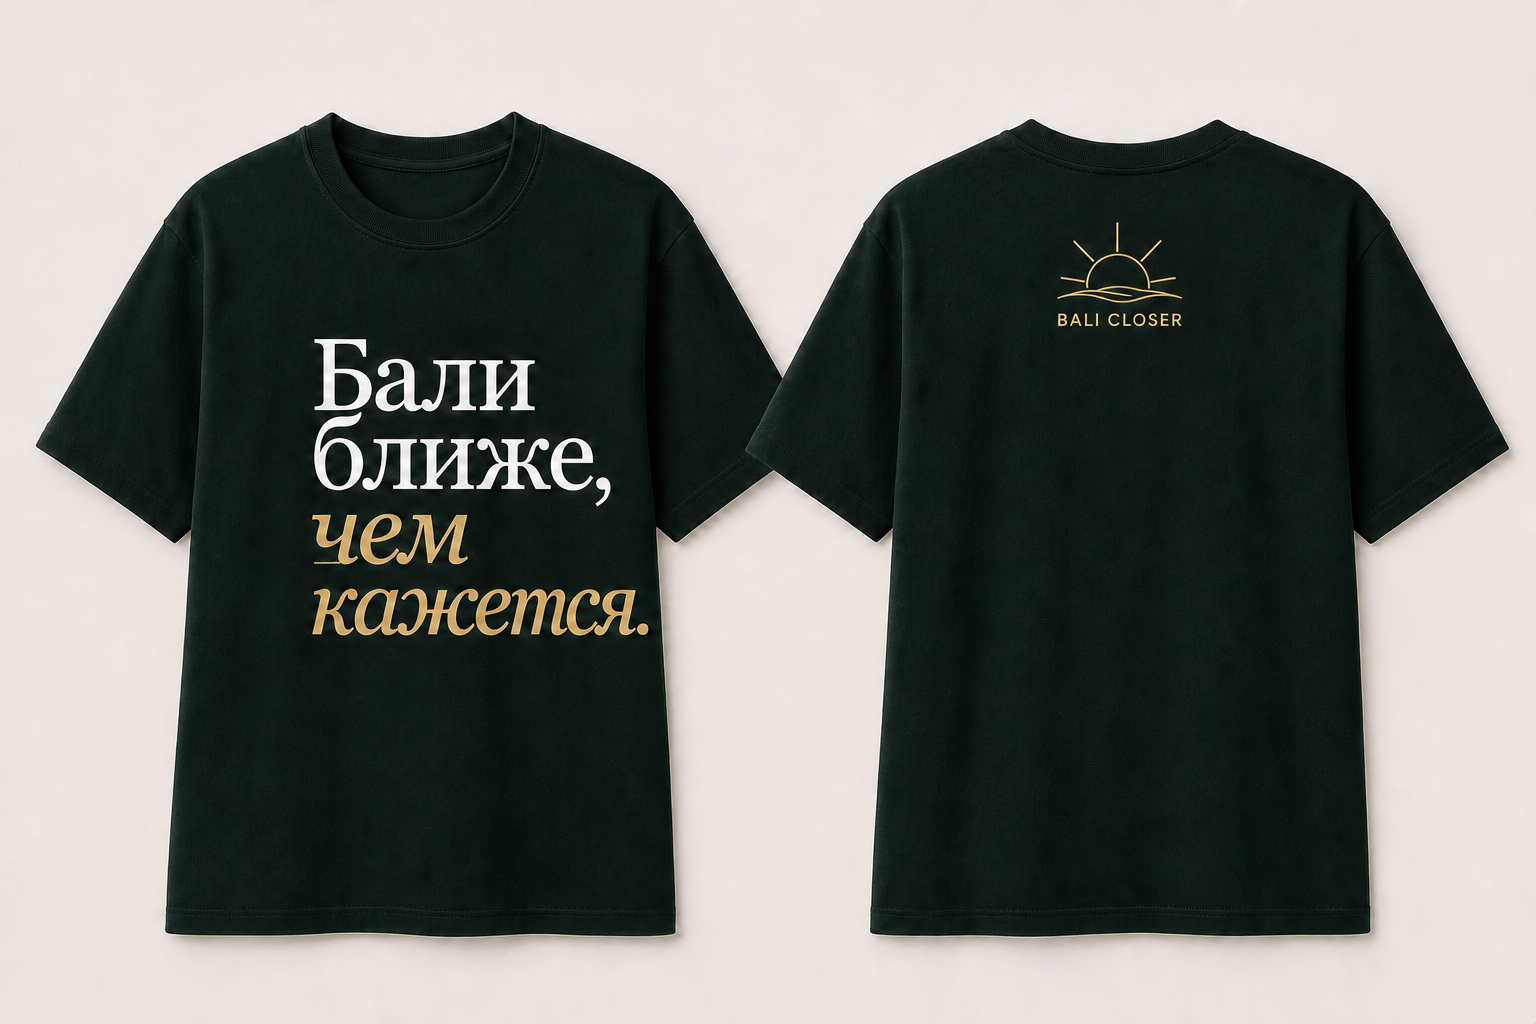
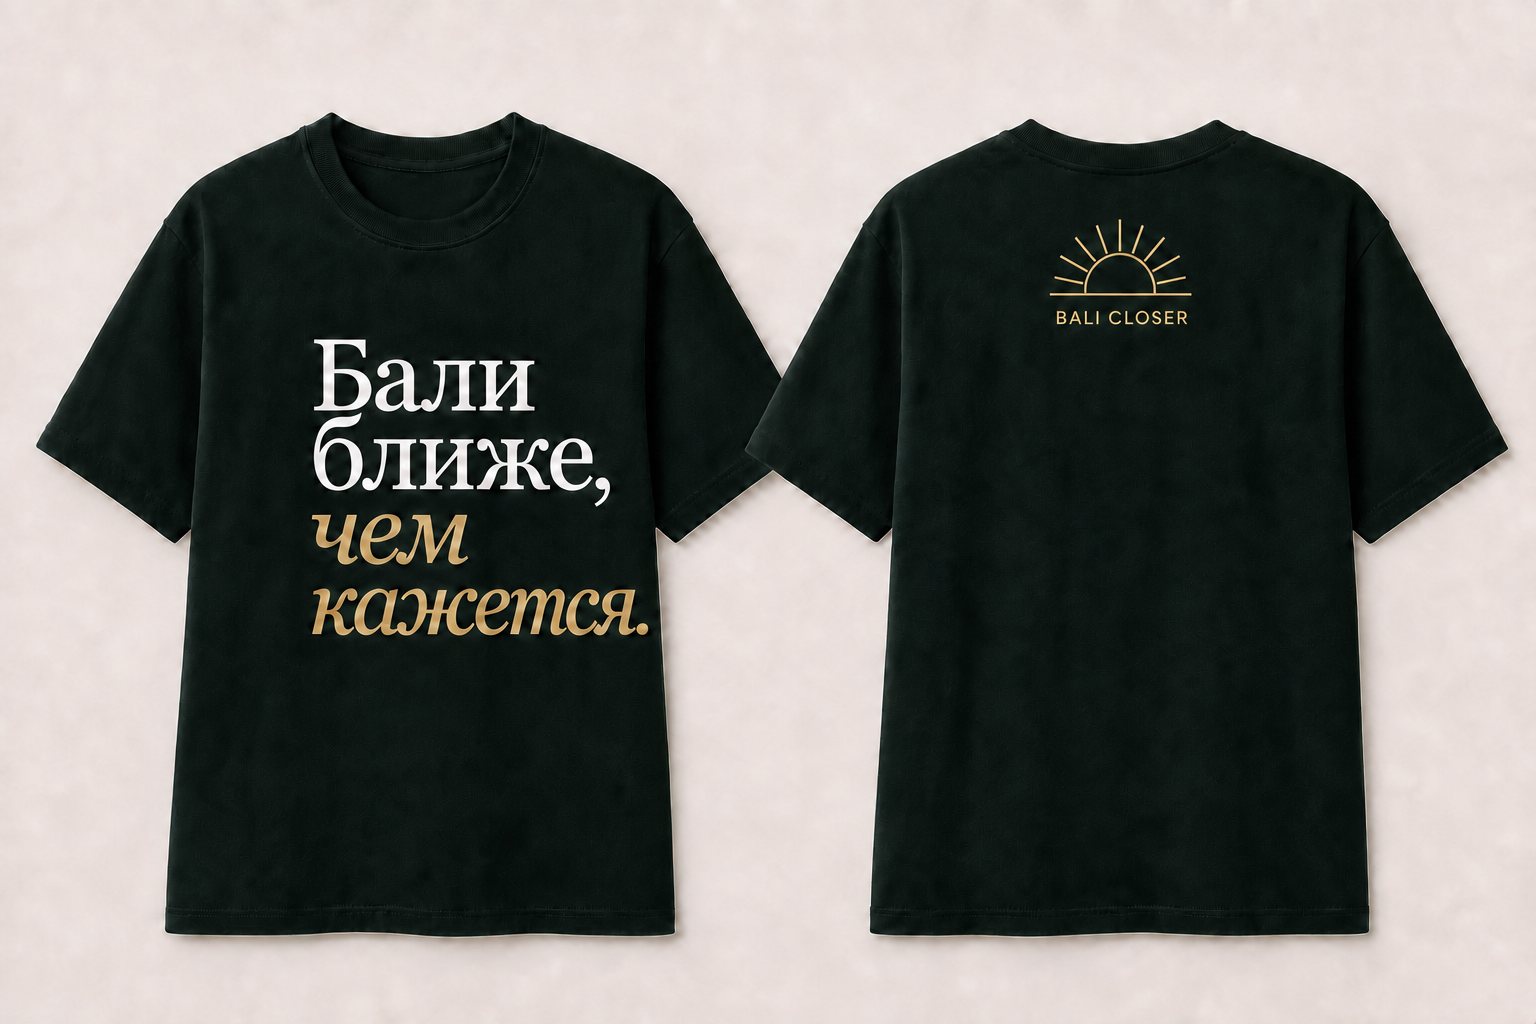
fix: simplify Bali Closer sun mark

diff --git a/components/BrandLogo.tsx b/components/BrandLogo.tsx
@@ -8,10 +8,9 @@ function SunriseMark() {
   return (
     <svg className="brand-logo-mark" viewBox="0 0 72 58" aria-hidden="true">
       <g fill="none" stroke="currentColor" strokeLinecap="round" strokeLinejoin="round">
-        <path d="M21 34a15 15 0 0 1 30 0" strokeWidth="2.2" />
-        <path d="M12 38c8-3 16-3 24 0s16 3 24 0" strokeWidth="2" />
-        <path d="M15 44c7-3 14-3 21 0s14 3 21 0" strokeWidth="1.65" />
-        <path d="M36 5v7M23 9l3.5 6M49 9l-3.5 6M14 18l6 3.5M58 18l-6 3.5M10 30h7M62 30h-7" strokeWidth="1.65" />
+        <path d="M20 36a16 16 0 0 1 32 0" strokeWidth="2.2" />
+        <path d="M8 36h56" strokeWidth="2" />
+        <path d="M19.58 31.6 9.92 29.01M21.28 27.5 12.62 22.5M23.98 23.98 16.91 16.91M27.5 21.28 22.5 12.62M31.6 19.58 29.01 9.92M36 19V9M40.4 19.58 42.99 9.92M44.5 21.28 49.5 12.62M48.02 23.98 55.09 16.91M50.72 27.5 59.38 22.5M52.42 31.6 62.08 29.01" strokeWidth="1.65" />
       </g>
     </svg>
   );

diff --git a/scripts/build_brand_vendor_art.py b/scripts/build_brand_vendor_art.py
@@ -59,10 +59,9 @@ def centered_line(font: TTFont, text: str, y: float, max_width: float, size: flo
 def sunrise_geometry(colour: str) -> str:
     return (
         f'<g fill="none" stroke="{colour}" stroke-linecap="round" stroke-linejoin="round">'
-        '<path d="M21 34a15 15 0 0 1 30 0" stroke-width="2.2"/>'
-        '<path d="M12 38c8-3 16-3 24 0s16 3 24 0" stroke-width="2"/>'
-        '<path d="M15 44c7-3 14-3 21 0s14 3 21 0" stroke-width="1.65"/>'
-        '<path d="M36 5v7M23 9l3.5 6M49 9l-3.5 6M14 18l6 3.5M58 18l-6 3.5M10 30h7M62 30h-7" stroke-width="1.65"/>'
+        '<path d="M20 36a16 16 0 0 1 32 0" stroke-width="2.2"/>'
+        '<path d="M8 36h56" stroke-width="2"/>'
+        '<path d="M19.58 31.6 9.92 29.01M21.28 27.5 12.62 22.5M23.98 23.98 16.91 16.91M27.5 21.28 22.5 12.62M31.6 19.58 29.01 9.92M36 19V9M40.4 19.58 42.99 9.92M44.5 21.28 49.5 12.62M48.02 23.98 55.09 16.91M50.72 27.5 59.38 22.5M52.42 31.6 62.08 29.01" stroke-width="1.65"/>'
         '</g>'
     )
 
@@ -99,4 +98,3 @@ OUT.mkdir(parents=True, exist_ok=True)
 for name, value in COLOURS.items():
     build_front(name, value)
     build_stacked(name, value)
-

diff --git a/.scratch/bali-closer-brand/spec.md b/.scratch/bali-closer-brand/spec.md
@@ -6,7 +6,7 @@ Implemented locally on 25 July 2026. Automated checks and desktop/mobile visual 
 
 ## Confirmed decisions
 
-1. Universal symbol: simplified sunrise with seven rays and two rice-terrace contour lines.
+1. Universal symbol: simple half sunrise with eleven straight rays and one horizontal baseline, matching the approved reference; no contour or wave lines.
 2. Wordmark uses bold clean sans-serif typography.
 3. Russian website: `BALI · БЛИЖЕ`; English website: `BALI · CLOSER`.
 4. Uniform back: stacked symbol with `BALI CLOSER`.
@@ -20,4 +20,3 @@ Implemented locally on 25 July 2026. Automated checks and desktop/mobile visual 
 - Website remains compatible with GitHub Pages static export.
 - Vendor package includes outlined SVG artwork at physical print dimensions and three official colour treatments.
 - Russian wordmark is not published until fluent review is recorded.
-

diff --git a/design/brand/README.md b/design/brand/README.md
@@ -2,7 +2,7 @@
 
 ## Logo architecture
 
-- Universal mark: a rising sun above two contour lines inspired by Bali rice terraces.
+- Universal mark: a simple half rising sun with eleven straight rays and one horizontal baseline.
 - Russian horizontal wordmark: `BALI · БЛИЖЕ`.
 - English horizontal wordmark: `BALI · CLOSER`.
 - Staff uniform back: stacked mark with `BALI CLOSER`.
@@ -22,7 +22,7 @@ The website asset folder includes separate gold, white, and deep-forest SVG expo
 - Horizontal minimum width: 150 px on screen or 40 mm in print.
 - Stacked minimum width: 32 mm in print.
 - Symbol minimum size: 24 px on screen or 8 mm in print.
-- Do not stretch, rotate, add shadows, use gradients, or rearrange the rays and contour lines.
+- Do not stretch, rotate, add shadows, use gradients, add contour lines, or rearrange the rays and baseline.
 
 ## Uniform recommendation
 

diff --git a/workflows/brand-asset-production.md b/workflows/brand-asset-production.md
@@ -10,7 +10,7 @@ Run this workflow whenever a new branded medium is requested or an existing logo
 
 ## Source of truth
 
-- Universal symbol: sunrise plus two rice-terrace contour lines.
+- Universal symbol: simple half sunrise with eleven straight rays and one horizontal baseline; no contour or wave lines.
 - Website wordmarks: `BALI · БЛИЖЕ` for Russian and `BALI · CLOSER` for English.
 - Staff uniform back: stacked symbol plus `BALI CLOSER`.
 - Official colours and size rules: `design/brand/README.md`.

diff --git a/.scratch/bali-closer-brand/issues/01-logo-system.md b/.scratch/bali-closer-brand/issues/01-logo-system.md
@@ -13,4 +13,4 @@ Status: done
 - 2026-07-25: Implemented in commit `8af20aa`.
 - 2026-07-25: Desktop 1280×720 and mobile 390×844 visual checks passed for the logo placement.
 - 2026-07-25: GitHub Pages production build passed.
-
+- 2026-07-25: Symbol corrected to the approved simple half-sun with eleven straight rays and one horizontal baseline; all contour lines removed across website, SVG, vendor, and mockup assets.
